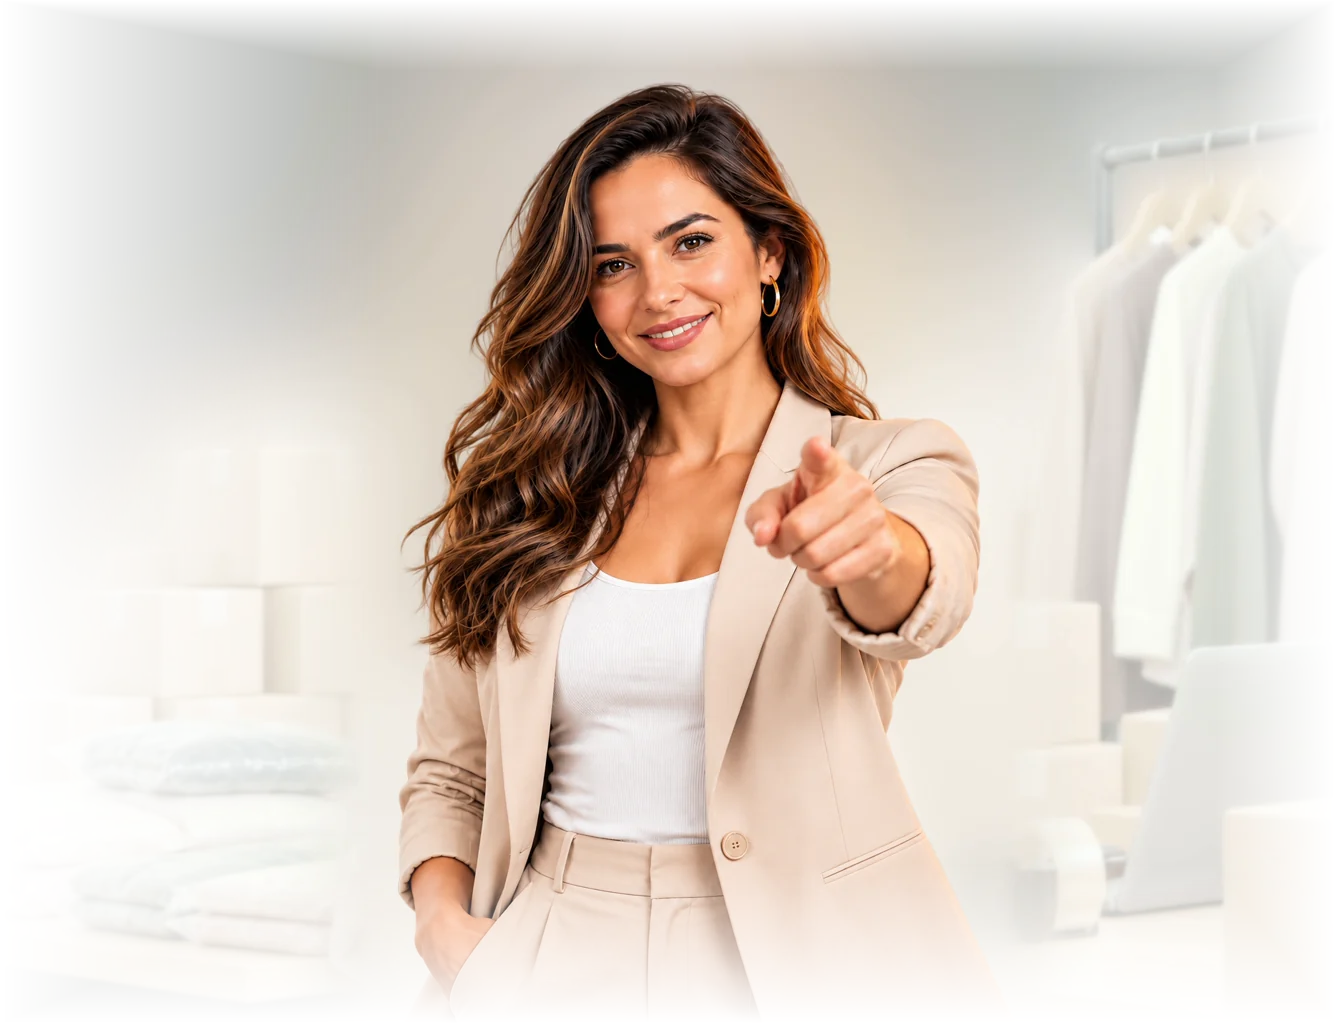
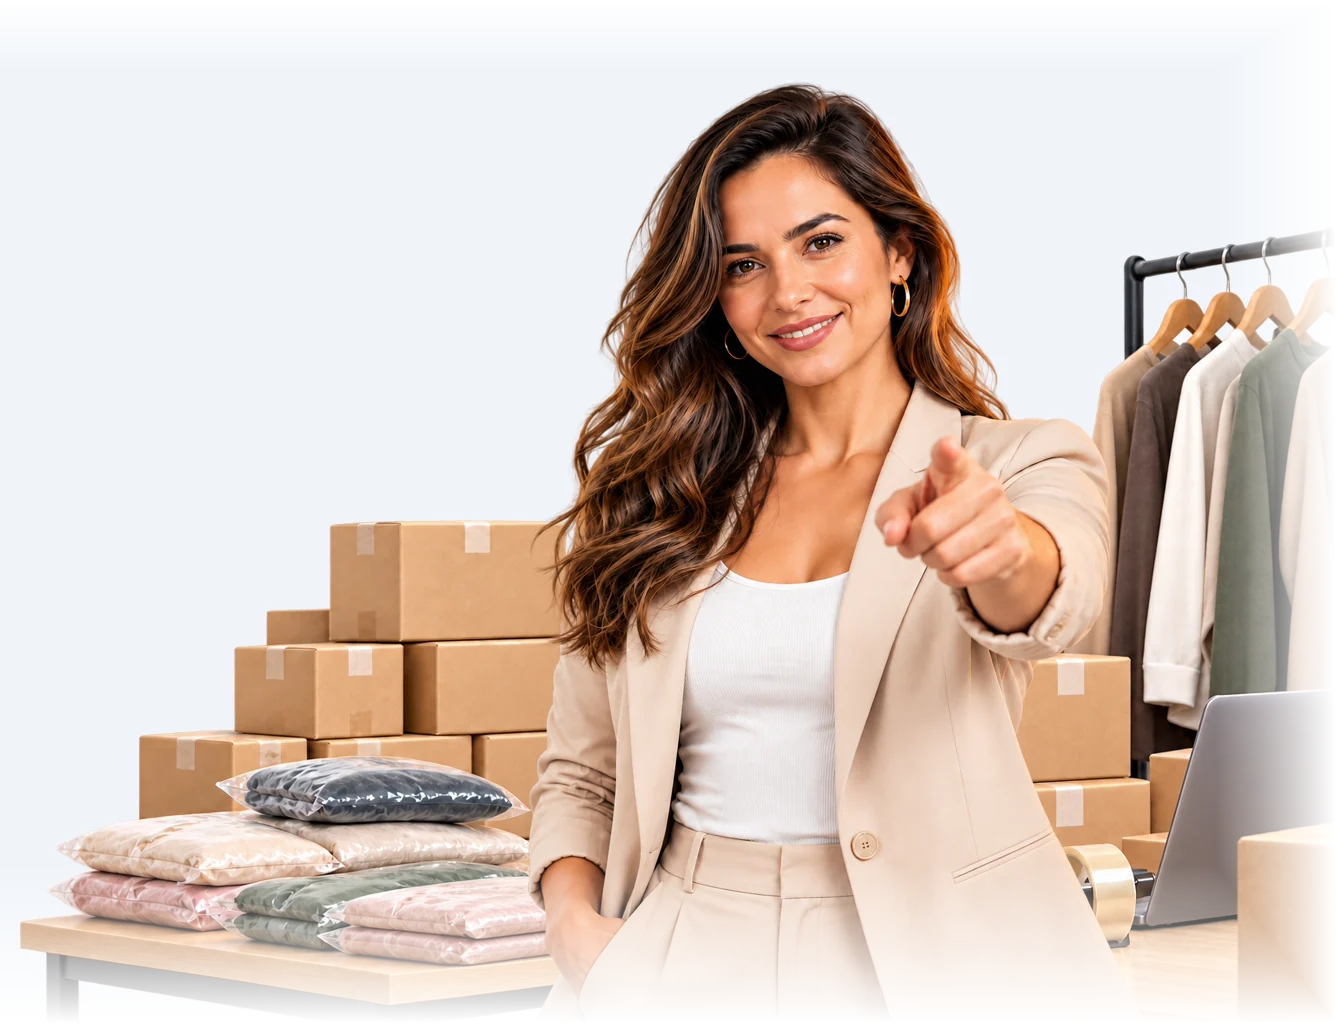
Monta a foto com o cenario de caixas em cor natural e corrige borda dura
- Cenario passa a ser o recorte "Apparel packing station with boxes"
  (caixas, arara, bancada, roupas embaladas) em cor natural, atras da
  lojista, sobre a cor exata do fundo da secao
- Corrige a borda vertical dura atras do texto: o object-fit:cover
  cortava a esquerda da imagem ao bater no max-width, levando junto o
  esmaecimento gravado no arquivo. O esmaecimento da esquerda agora e
  feito por mask-image no CSS, que vale depois do corte

diff --git a/index.html b/index.html
@@ -507,21 +507,27 @@ section.light{background-image:
 /* traço de cor no topo dos cards claros */
 section.light .card{position:relative;overflow:hidden}
 section.light .card::after{content:"";position:absolute;top:0;left:0;right:0;height:3px;background:var(--mk,#1B3FA8)}
-/* "Para quem e": lojista sobre o cenario da loja (arara, caixas, bancada).
-   O arquivo e uma composicao: recorte da lojista em cor original por cima do
-   cenario clareado, com as quatro bordas esmaecidas em alpha (receita no
-   README). Por isso ele sangra direto sobre o fundo claro, sem moldura.
-   No desktop a imagem e larga e o lado esquerdo, ja quase transparente, passa
-   por baixo do texto — o cabecalho fica acima dela via z-index. */
+/* "Para quem e": lojista na frente do cenario da loja (caixas, arara, bancada).
+   O arquivo e uma composicao de dois recortes sobre a cor do fundo da secao,
+   com topo, direita e base esmaecidos em alpha (receita no README).
+   O esmaecimento da esquerda fica na mascara CSS, e nao no arquivo, porque no
+   desktop o object-fit:cover corta justamente a esquerda quando a imagem bate
+   no max-width — um esmaecimento gravado no arquivo seria cortado junto e
+   deixaria uma borda vertical dura atras do texto.
+   O cabecalho fica acima da imagem via z-index. */
 .pq-top{position:relative}
 .pq-top .head{position:relative;z-index:1}
-.pq-foto{display:block;width:100%;height:auto;margin:.8rem 0 -1rem;pointer-events:none}
+.pq-foto{display:block;width:100%;height:auto;margin:.8rem 0 -1rem;pointer-events:none;
+  -webkit-mask-image:linear-gradient(to right,transparent 0,#000 18%);
+  mask-image:linear-gradient(to right,transparent 0,#000 18%)}
 @media(min-width:960px){
   .pq-top{min-height:clamp(420px,42vw,560px)}
   .pq-top .head{max-width:min(50%,56ch)}
   .pq-foto{position:absolute;right:0;bottom:0;margin:0;
     height:calc(100% + clamp(1rem,2.5vw,2.5rem));width:auto;max-width:62%;
-    object-fit:cover;object-position:right bottom}
+    object-fit:cover;object-position:right bottom;
+    -webkit-mask-image:linear-gradient(to right,transparent 0,#000 28%);
+    mask-image:linear-gradient(to right,transparent 0,#000 28%)}
 }
 
 #paraquem .card:nth-child(1){--mk:var(--ml-yellow)}

diff --git a/README.md b/README.md
@@ -45,26 +45,22 @@ Hospedada na Vercel, conectada a este repositório. Todo push na branch `main` p
 
 ## Tratamento da foto da seção "Para quem é"
 
-`assets/lojista-vestuario.webp` é uma composição de dois arquivos que ficam na raiz
-(fora do git, por serem PNGs de 2 MB):
+`assets/lojista-vestuario.webp` é uma composição de dois recortes com fundo
+transparente, que ficam na raiz (fora do git, por serem PNGs de 2 MB):
 
-- `Confident Marketplace Seller with Packing Supplies.png` — fornece o cenário
-  (arara, caixas, bancada). É clareado, e a faixa central, onde havia outra
-  pessoa, recebe desfoque forte para não aparecer "fantasma" atrás da lojista.
-- `Smiling shop owner transparent cutout.png` — o recorte da lojista, que entra
-  por cima em cor original.
+- `Apparel packing station with boxes.png` — o cenário (caixas, arara, bancada).
+- `Smiling shop owner transparent cutout.png` — a lojista, que entra na frente.
 
-Depois, as quatro bordas recebem esmaecimento em alpha e o resultado vira webp
-com canal alfa. Para refazer:
+Os dois são montados sobre a cor de fundo da seção (`#F3F6FD`); topo, direita e
+base recebem esmaecimento em alpha. O esmaecimento da esquerda é feito por
+`mask-image` no CSS (ver comentário em `.pq-foto`). Para refazer:
 
 ```bash
-ffmpeg -i "Confident Marketplace Seller with Packing Supplies.png" \
+ffmpeg -i "Apparel packing station with boxes.png" \
   -i "Smiling shop owner transparent cutout.png" -filter_complex "\
-[0:v]curves=all='0/0.70 0.3/0.85 0.7/0.95 1/1',eq=saturation=0.85,format=gbrp,split[a][b];\
-[a]gblur=sigma=2.5[s];[b]gblur=sigma=70[h];\
-[s][h]blend=all_expr='A*(1-clip((X-480)/90,0,1)*clip((1290-X)/90,0,1))+B*clip((X-480)/90,0,1)*clip((1290-X)/90,0,1)',format=rgba[bg];\
-[1:v]scale=-1:1100[fg];[bg][fg]overlay=504:70,crop=1336:1024:200:0,format=rgba,\
-geq=r='r(X,Y)':g='g(X,Y)':b='b(X,Y)':a='255*min(1,min(min(X/380,Y/70),min((W-1-X)/120,(H-1-Y)/160)))'" \
+color=c=0xF3F6FD:s=1336x1024,format=rgba[bg];[0:v]scale=1336:-1[sc];\
+[1:v]scale=-1:1100[fg];[bg][sc]overlay=0:H-h[t];[t][fg]overlay=434:70,format=rgba,\
+geq=r='r(X,Y)':g='g(X,Y)':b='b(X,Y)':a='255*min(1,min(Y/70,min((W-1-X)/120,(H-1-Y)/160)))'" \
   -frames:v 1 tmp.png
 ffmpeg -i tmp.png -c:v libwebp -pix_fmt yuva420p -quality 86 \
   -compression_level 6 assets/lojista-vestuario.webp
